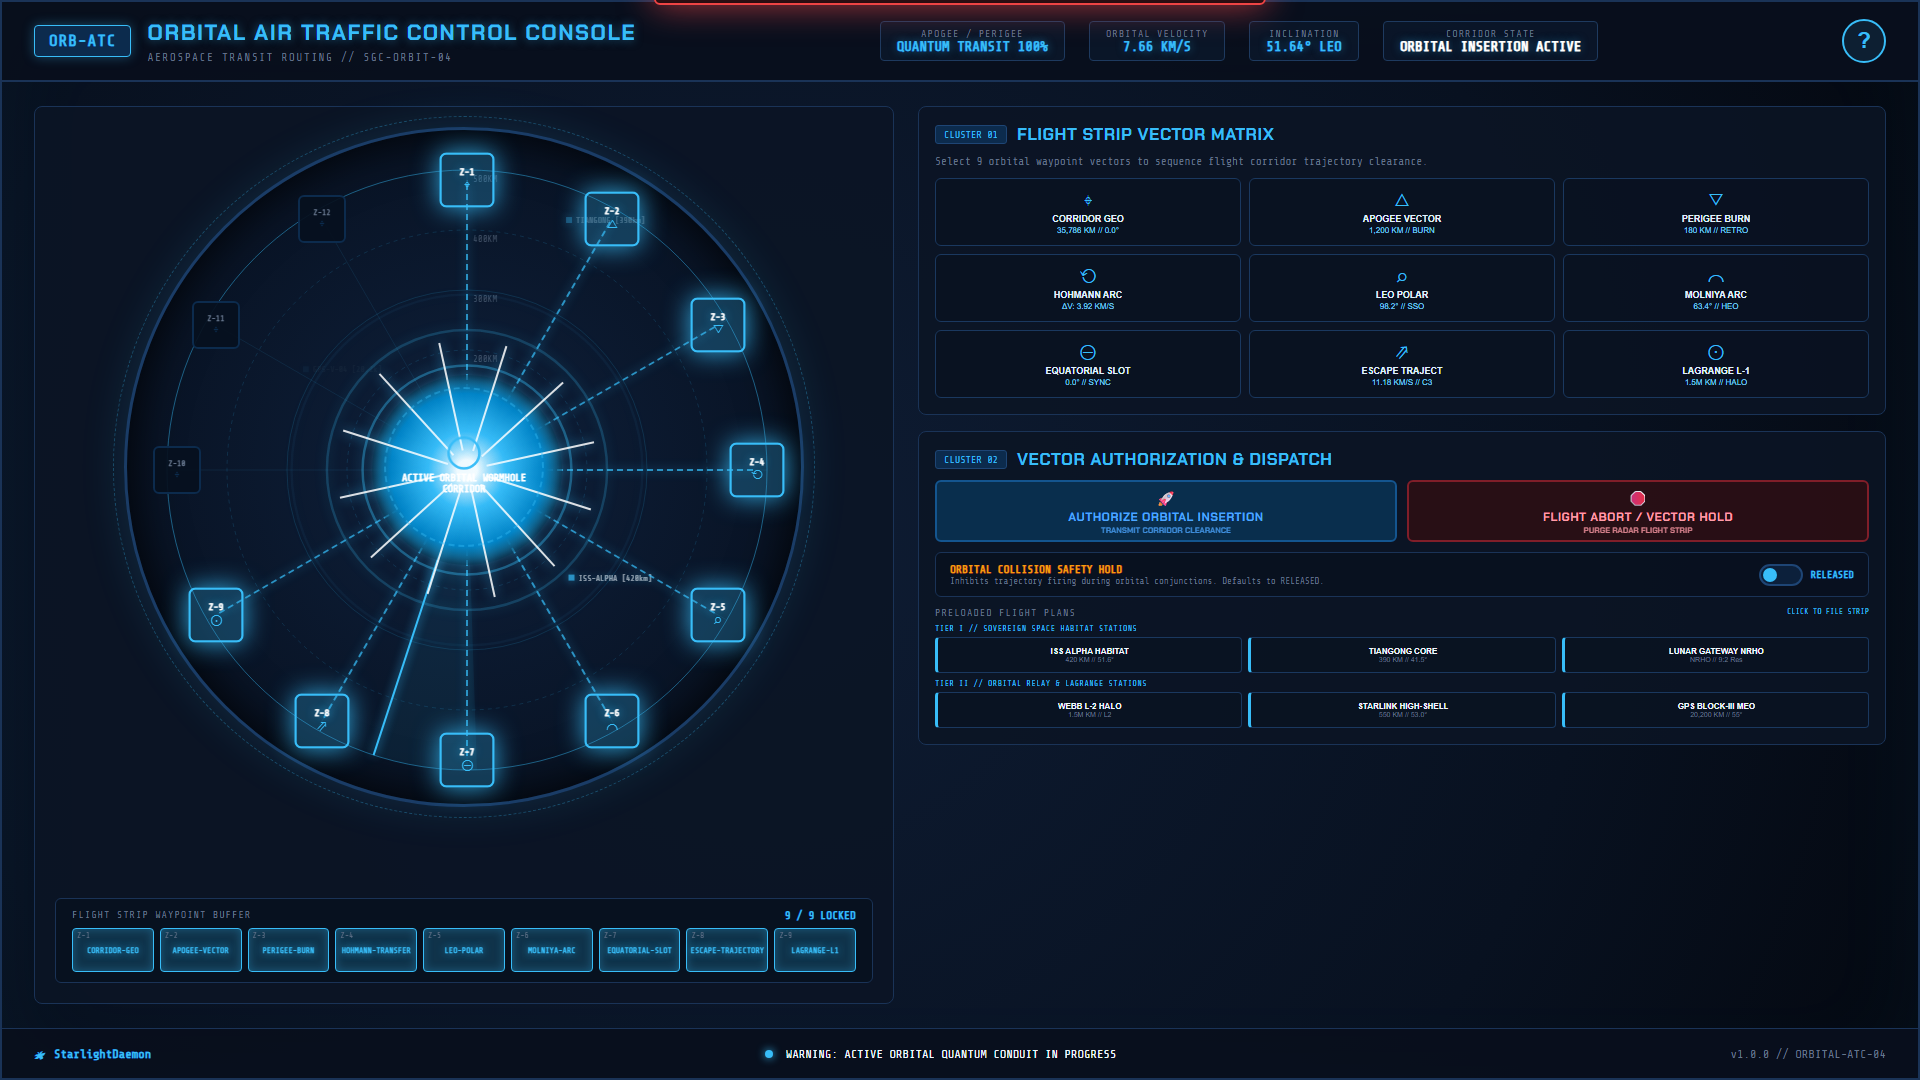
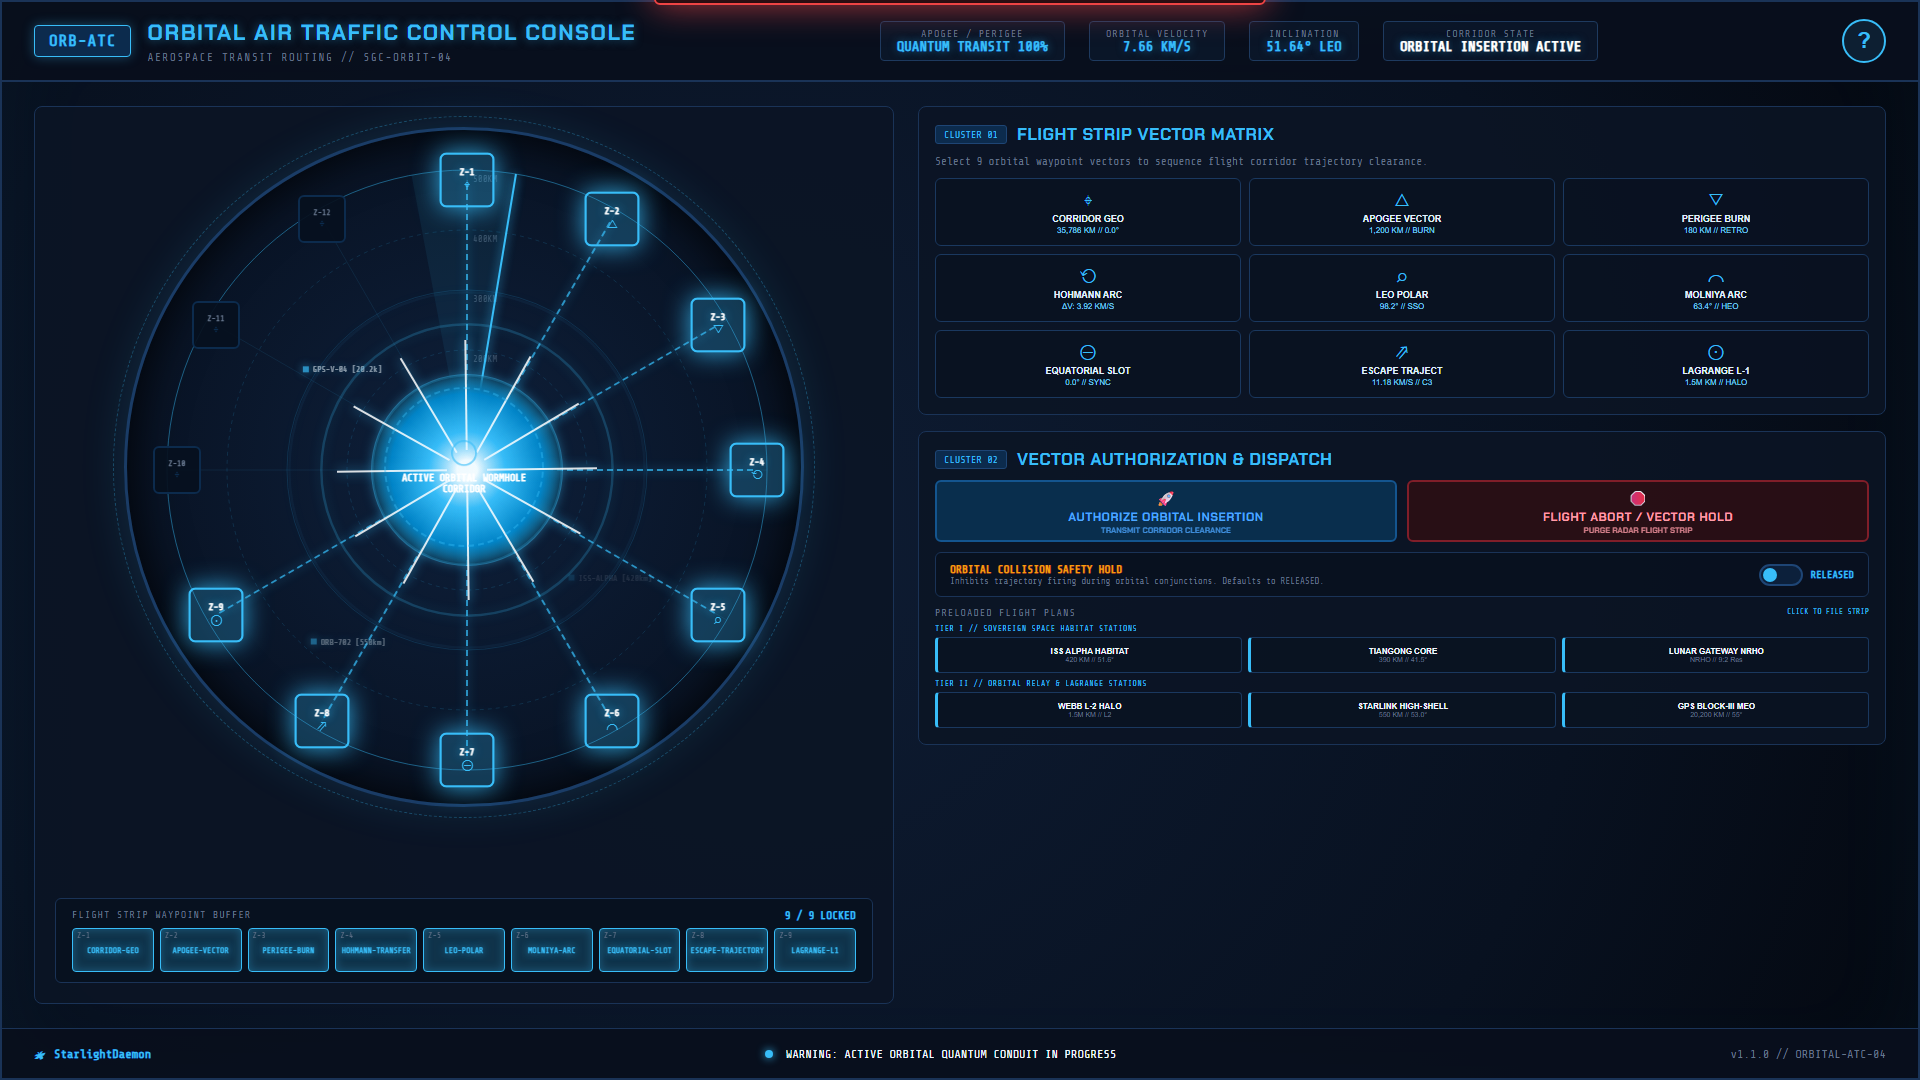
fix(stargate_orbital_atc): stage preset quick-dial through per-waypoint radar locks (v1.1.0)
loadPreset previously locked all 9 waypoint glyphs in one synchronous
forEach, jumping straight to PENDING_READY and skipping the per-waypoint
transponder chirp, radar lock beep, chevron animation, and ROUTING
telemetry manual vectoring uses. Presets now execute the filed flight
plan through lockGlyph (the manual lock path) at 240ms per waypoint -
autopilot cadence. Replay lands in PENDING_READY without transmitting
insertion clearance; FLIGHT ABORT cancels an in-flight replay, and the
collision safety hold halts remaining steps with one interlock alert.
Tests: staged sampling with in-progress screenshots, mid-replay abort
test, re-timed preset check.

Changed region(s): [[0.1562, 0.1528, 0.3438, 0.7028]]

diff --git a/stargate_orbital_atc/test_build.js b/stargate_orbital_atc/test_build.js
@@ -233,7 +233,7 @@ async function runTests() {
     // --- TEST CYCLE 2: PRESET -> NEGATIVE CHECK -> ACTIVATE -> ACTIVE VERIFICATION -> DISENGAGE ---
     console.log('\n--- EXECUTING DIAL-ACTIVATE-DISENGAGE CYCLE 2 ---');
     await hitAndClick('.preset-btn[data-preset="iss-corridor"]');
-    await sleep(600);
+    await sleep(2700); // flight-plan replay: 9 waypoints x 240ms autopilot cadence
 
     const stateAfterPreset = await cdp.eval(`(() => {
       const counter = document.getElementById('address-counter').textContent;
@@ -273,6 +273,67 @@ async function runTests() {
       return document.getElementById('address-counter').textContent;
     })()`);
     console.log(`[Cycle 2 - After Disengage]: ${stateAfterDisengage2}`);
+
+    // --- TEST STAGED FLIGHT-PLAN REPLAY (per-waypoint locks, no instant jump) ---
+    console.log('\n--- TESTING STAGED PRESET REPLAY ---');
+    await hitAndClick('.preset-btn[data-preset="iss-corridor"]');
+    // hitAndClick sleeps 250ms after the click; sample on an absolute clock
+    const clickT0 = Date.now() - 250;
+
+    const replaySamples = [];
+    for (const off of [400, 1000, 1600]) {
+      const rem = clickT0 + off - Date.now();
+      if (rem > 0) await sleep(rem);
+      const s = await cdp.eval(`(() => ({
+        locked: (document.getElementById('address-counter').textContent.match(/^(\\d+)/) || [0,0])[1],
+        teleState: document.getElementById('tele-state').textContent,
+        activateDisabled: document.getElementById('btn-activate').hasAttribute('disabled')
+      }))()`);
+      s.locked = parseInt(s.locked, 10);
+      replaySamples.push(s);
+      console.log(`  t=${Date.now() - clickT0}ms:`, JSON.stringify(s));
+      await cdp.screenshot(path.join(__dirname, `screenshot_replay_t${off}.png`));
+    }
+    const rCounts = replaySamples.map(s => s.locked);
+    const stagedOk = rCounts.every((v, i) => i === 0 || v > rCounts[i - 1]) &&
+      replaySamples.every(s => s.locked > 0 && s.locked < 9 && s.activateDisabled &&
+        !s.teleState.includes('ORBITAL INSERTION ACTIVE'));
+    if (!stagedOk) {
+      throw new Error(`FAIL: Preset replay is not visibly staged: ${JSON.stringify(replaySamples)}`);
+    }
+
+    // Completion +1.2s: PENDING, activate enabled, NOT active
+    const toEnd = clickT0 + 2160 + 1200 - Date.now();
+    if (toEnd > 0) await sleep(toEnd);
+    const replayEnd = await cdp.eval(`(() => ({
+      counter: document.getElementById('address-counter').textContent,
+      teleState: document.getElementById('tele-state').textContent,
+      activateDisabled: document.getElementById('btn-activate').hasAttribute('disabled')
+    }))()`);
+    console.log('[Replay End]:', JSON.stringify(replayEnd));
+    if (!replayEnd.counter.includes('9 / 9') || replayEnd.activateDisabled ||
+        replayEnd.teleState.includes('ORBITAL INSERTION ACTIVE')) {
+      throw new Error('FAIL: Replay did not land in PENDING_READY without auto-fire.');
+    }
+    console.log('>>> STAGED REPLAY CONFIRMED: per-waypoint locks, PENDING at end, no auto-fire.');
+
+    // --- TEST DISENGAGE DURING REPLAY ---
+    console.log('\n--- TESTING ABORT DURING PRESET REPLAY ---');
+    await hitAndClick('#btn-disengage');
+    await sleep(200);
+    await hitAndClick('.preset-btn[data-preset="iss-corridor"]');
+    await sleep(450); // ~2 waypoints locked (250ms already slept in hitAndClick)
+    const midAbortState = await cdp.eval(`document.getElementById('address-counter').textContent`);
+    console.log(`[Mid-replay before abort]: ${midAbortState}`);
+    await hitAndClick('#btn-disengage');
+    await sleep(2100); // past when remaining autopilot steps would have fired
+    const afterAbortState = await cdp.eval(`document.getElementById('address-counter').textContent`);
+    console.log(`[After mid-replay abort +2.1s]: ${afterAbortState}`);
+    if (!afterAbortState.includes('0 / 9')) {
+      throw new Error('FAIL: Abort during replay left orphaned autopilot timers still locking waypoints.');
+    }
+    await cdp.screenshot(path.join(__dirname, 'screenshot_mid_replay_abort.png'));
+    console.log('>>> MID-REPLAY ABORT CONFIRMED: no orphaned locks after disengage.');
 
     // --- TEST ORBITAL COLLISION SAFETY HOLD ---
     console.log('\n--- TESTING ORBITAL COLLISION SAFETY HOLD ---');

diff --git a/stargate_orbital_atc/app.js b/stargate_orbital_atc/app.js
@@ -459,6 +459,7 @@
 
   // --- DISENGAGE / ABORT TRIGGER ---
   function disengageConduit() {
+    cancelPresetReplay(); // abort any in-flight flight-plan replay
     SoundFX.abortPurge();
 
     state.mode = 'IDLE';
@@ -485,6 +486,19 @@
   }
 
   // --- PRESET QUICK-DIAL LOADER ---
+  // FILED FLIGHT-PLAN REPLAY: presets execute a pre-filed departure route —
+  // the flight computer sequences the waypoints at autopilot cadence, far
+  // faster than manual vectoring, but every waypoint still passes through
+  // the same lockGlyph acquisition (transponder chirp, radar lock beep,
+  // waypoint chevron, telemetry) as a manually vectored glyph. The 9th lock
+  // lands in PENDING_READY; insertion clearance is NEVER transmitted on its own.
+  let presetReplayTimers = [];
+
+  function cancelPresetReplay() {
+    presetReplayTimers.forEach(t => clearTimeout(t));
+    presetReplayTimers = [];
+  }
+
   function loadPreset(presetKey) {
     if (state.safetyHoldEngaged) {
       triggerInterlockAlert();
@@ -493,12 +507,21 @@
     const preset = PRESETS[presetKey];
     if (!preset) return;
 
-    disengageConduit();
+    disengageConduit(); // also cancels any in-flight replay
 
-    preset.glyphs.forEach(glyphName => {
-      const btn = document.querySelector(`.glyph-btn[data-glyph="${glyphName}"]`);
-      const sym = btn ? btn.dataset.symbol : '⌖';
-      lockGlyph(glyphName, sym);
+    const AUTOPILOT_STEP_MS = 240; // autopilot cadence: faster than manual vectoring, one waypoint at a time
+    preset.glyphs.forEach((glyphName, i) => {
+      const timer = setTimeout(() => {
+        if (state.safetyHoldEngaged) {
+          cancelPresetReplay();
+          triggerInterlockAlert();
+          return;
+        }
+        const btn = document.querySelector(`.glyph-btn[data-glyph="${glyphName}"]`);
+        const sym = btn ? btn.dataset.symbol : '⌖';
+        lockGlyph(glyphName, sym);
+      }, AUTOPILOT_STEP_MS * (i + 1));
+      presetReplayTimers.push(timer);
     });
   }
 

diff --git a/stargate_orbital_atc/index.html b/stargate_orbital_atc/index.html
@@ -290,7 +290,7 @@
         <span id="footer-status-text">RADAR SCOPE ACTIVE // 12 ORBITAL SECTORS MONITORED</span>
       </div>
       <div class="footer-right">
-        <span class="version-tag">v1.0.0 // ORBITAL-ATC-04</span>
+        <span class="version-tag">v1.1.0 // ORBITAL-ATC-04</span>
       </div>
     </footer>
   </div>

diff --git a/stargate_orbital_atc/CHANGELOG.md b/stargate_orbital_atc/CHANGELOG.md
@@ -5,6 +5,19 @@ All notable changes to this project will be documented in this file.
 The format is based on [Keep a Changelog](https://keepachangelog.com/en/1.0.0/),
 and this project adheres to [Semantic Versioning](https://semver.org/spec/v2.0.0.html).
 
+## [1.1.0] - 2026-08-15
+
+**Built by:** Claude Opus (auto-dial staging fix; original build by Gemini 3.6 Flash (high reasoning))
+
+### Fixed
+- **Preset Quick-Dial Instant-Jump Bug**: loading an orbital preset previously locked all 9 waypoint glyphs in one synchronous forEach, jumping straight to `PENDING_READY` and bypassing the per-waypoint transponder chirp, radar lock beep, chevron animation, and `ROUTING` telemetry progression that manual vectoring uses.
+- **Filed Flight-Plan Replay**: presets now acquire each waypoint through the exact same `lockGlyph` acquisition as manual vectoring, one waypoint every 240ms — in-universe, the flight computer executes a pre-filed departure route at autopilot cadence: far faster than manual vectoring, but every waypoint still requires its own radar lock.
+- Replay lands in the identical `PENDING_READY` state as manual vectoring and **never transmits insertion clearance on its own** (asserted at completion +1.2s).
+- `ABORT / FLIGHT CANCEL` remains fully functional **during** a replay: aborting mid-sequence cancels all pending autopilot steps and resets cleanly (new automated test). Engaging the Collision Safety Hold mid-replay halts the remaining steps with a single interlock alert.
+
+### Changed
+- Verification suite: staged-replay sampling with in-progress screenshots, mid-replay abort test; preset assertion re-timed for the ~2.2s replay.
+
 ## [1.0.1] - 2026-08-13
 
 ### Operator Evaluation & Status Note
